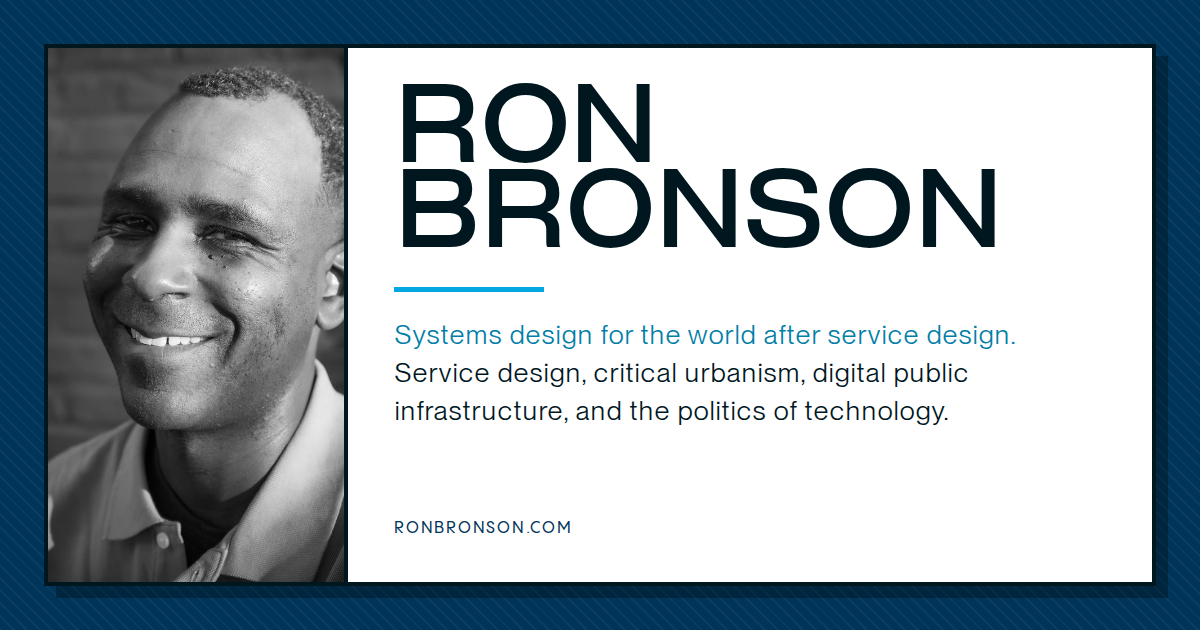
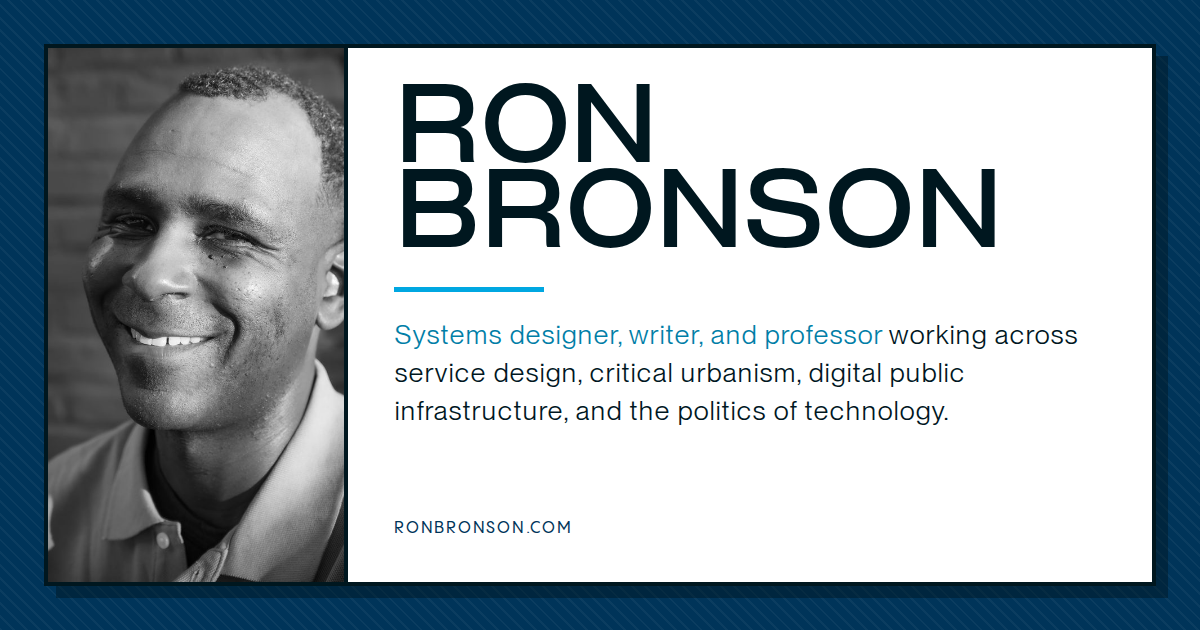
Replace introduction with Ron's two-paragraph copy
Deck line, lines of inquiry and critical-practice modules removed.
Practice, Elsewhere, embeds, rail and Top 8 unchanged. Meta
descriptions, og.html, og.png and README updated.

Claude-Session: https://claude.ai/code/session_015t6jesiUND2iopuK2EreYA

Changed region(s): [[0.3083, 0.573, 0.8017, 0.6333], [0.4933, 0.5127, 0.8942, 0.573]]

diff --git a/index.html b/index.html
@@ -4,7 +4,7 @@
 <meta charset="utf-8" />
 <meta name="viewport" content="width=device-width, initial-scale=1" />
 <title>Ron Bronson</title>
-<meta name="description" content="Systems design for the world after service design. Ron Bronson works across service design, critical urbanism, digital public infrastructure, and the politics of technology." />
+<meta name="description" content="Ron Bronson is a systems designer, writer, and professor working across service design, critical urbanism, digital public infrastructure, and the politics of technology." />
 <link rel="canonical" href="https://ronbronson.com/" />
 
 <!-- Social card. og.png is 1200×630 (1.91:1) and generated from assets/og.html —
@@ -16,7 +16,7 @@
 <meta property="og:url" content="https://ronbronson.com/" />
 <meta property="og:locale" content="en_US" />
 <meta property="og:title" content="Ron Bronson" />
-<meta property="og:description" content="Systems design for the world after service design. Ron Bronson works across service design, critical urbanism, digital public infrastructure, and the politics of technology." />
+<meta property="og:description" content="Ron Bronson is a systems designer, writer, and professor working across service design, critical urbanism, digital public infrastructure, and the politics of technology." />
 <meta property="og:image" content="https://ronbronson.com/assets/og.png" />
 <meta property="og:image:type" content="image/png" />
 <meta property="og:image:width" content="1200" />
@@ -26,7 +26,7 @@
 <meta property="profile:last_name" content="Bronson" />
 <meta name="twitter:card" content="summary_large_image" />
 <meta name="twitter:title" content="Ron Bronson" />
-<meta name="twitter:description" content="Systems design for the world after service design. Ron Bronson works across service design, critical urbanism, digital public infrastructure, and the politics of technology." />
+<meta name="twitter:description" content="Ron Bronson is a systems designer, writer, and professor working across service design, critical urbanism, digital public infrastructure, and the politics of technology." />
 <meta name="twitter:image" content="https://ronbronson.com/assets/og.png" />
 <meta name="twitter:image:alt" content="Ron Bronson and a short introduction." />
 <link rel="preload" as="font" type="font/woff2" href="assets/fonts/MTL/PPNeueMontrealText-Book.woff2" crossorigin />
@@ -117,12 +117,6 @@
     line-height: .96;
     letter-spacing: -.01em;
     text-transform: uppercase;
-  }
-  .deck {
-    margin: 10px 0 0;
-    font-family: var(--std); font-weight: 500;
-    font-size: clamp(16px, 1.7vw, 22px); line-height: 1.25;
-    color: var(--ink-2);
   }
   /* ── columns ── */
   .cols {
@@ -239,22 +233,6 @@
   .blurb p { margin: 0 0 .85em; max-width: 66ch; font-size: clamp(16px, 1.2vw, 18px); line-height: 1.55; }
   .blurb p:last-child { margin-bottom: 0; }
 
-  /* ── lines of inquiry ───────────────────────────────────────────────
-     Five named threads in one module. Each is a title in the display
-     face over a short run of prose, separated by the same dashed rule
-     the rail uses, so the page reads as one system top to bottom.
-     ──────────────────────────────────────────────────────────────── */
-  .inq { margin: 0; padding: 0; list-style: none; }
-  .inq li { padding: clamp(14px, 1.8vw, 20px) 0; border-top: 1px dashed var(--rule); }
-  .inq li:first-child { padding-top: 0; border-top: 0; }
-  .inq li:last-child { padding-bottom: 0; }
-  .inq h3 {
-    margin: 0 0 .35em;
-    font-family: var(--std); font-weight: 500;
-    font-size: clamp(18px, 1.6vw, 23px); line-height: 1.15;
-  }
-  .inq p { margin: 0 0 .7em; max-width: 66ch; font-size: clamp(16px, 1.2vw, 18px); line-height: 1.55; }
-  .inq p:last-child { margin-bottom: 0; }
 
   /* ── favorites, rail-weight ─────────────────────────────────────────
      Deliberately not the 2px-gap grid the main column uses: the rail is
@@ -388,7 +366,6 @@
 
   <header class="banner">
     <h1>Ron Bronson</h1>
-    <p class="deck">Systems design for the world after service design.</p>
   </header>
 
   <div class="cols">
@@ -519,86 +496,13 @@
            bar: it would only label the obvious. -->
       <div class="mod lede">
         <div class="mod__b">
-          <p>I work across service design, critical urbanism, digital public
-            infrastructure, and the politics of technology.</p>
-          <p>I&rsquo;m interested in what happens when designed systems leave the
-            conditions in which they were imagined and become part of everyday life:
-            when an interface becomes a rule, a service becomes infrastructure, an
-            optimization redistributes cost, or a technical system starts making
-            decisions that used to belong to people.</p>
-          <p>Service design has been useful for making systems visible. It is much
-            weaker at accounting for what those systems produce at scale. My work
-            starts there.</p>
-        </div>
-      </div>
-
-      <div class="mod">
-        <h2 class="mod__t">Current lines of inquiry</h2>
-        <div class="mod__b">
-          <ul class="inq">
-            <li>
-              <h3>Consequence Design</h3>
-              <p>Since 2017, I&rsquo;ve used Consequence Design to examine what services
-                and interfaces produce beyond their intended outcomes.</p>
-              <p>The central question is not simply whether a system works. It is what
-                becomes possible because it works, who absorbs the consequences, and
-                what happens when the assumptions embedded in the design meet a world
-                that does not share them.</p>
-            </li>
-            <li>
-              <h3>Design as Repair</h3>
-              <p>Design interventions enter environments that already have histories,
-                constraints, dependencies, and damage.</p>
-              <p>Design as Repair treats maintenance and operational failure as part of
-                the design problem. It argues for designers working closer to where
-                problems actually occur rather than arriving downstream after the
-                important framing decisions have already been made.</p>
-            </li>
-            <li>
-              <h3>Public Mechanics</h3>
-              <p>Services are not only experiences. They are rules, money, people,
-                technical systems, discretion, handoffs, and operations.</p>
-              <p>Public Mechanics studies that layer: how a policy becomes a decision,
-                how a decision becomes an interaction, and whether the person who
-                needed something actually received it.</p>
-            </li>
-            <li>
-              <h3>Digital public infrastructure</h3>
-              <p>Digital public infrastructure is closer to public works and statecraft
-                than to conventional software delivery.</p>
-              <p>Identity systems, payment rails, registries, data exchanges, and
-                increasingly AI-mediated services are becoming part of the operating
-                environment of everyday life. I&rsquo;m interested in who designs these
-                systems, what forms of authority they encode, and whether cities and
-                public bodies have the capacity to govern what they are becoming
-                dependent upon.</p>
-            </li>
-            <li>
-              <h3>Judgment after interfaces</h3>
-              <p>Large language models and autonomous agents move interaction away from
-                fixed interfaces and toward responses assembled through memory,
-                retrieval, tools, instructions, permissions, and models.</p>
-              <p>That changes the design problem. The important questions become who
-                owns the response experience, where judgment resides, what context the
-                system can see, and what happens when machines increasingly mediate the
-                relationship between people and services.</p>
-            </li>
-          </ul>
-        </div>
-      </div>
-
-      <div class="mod">
-        <h2 class="mod__t">A critical practice of service design</h2>
-        <div class="mod__b blurb">
-          <p>I have spent much of my career inside service design while remaining
-            skeptical of what the discipline claims it can accomplish.</p>
-          <p>A clean journey does not make a harmful system benign. Reducing friction
-            can make the wrong thing work better. Improving organizational capacity
-            does not determine what that capacity will be used to do. And increasingly,
-            the service encounter is only the visible edge of much larger technical,
-            economic, and political systems.</p>
-          <p>I&rsquo;m interested in what design becomes when those conditions are
-            treated as part of the material.</p>
+          <p>I&rsquo;m a systems designer, writer, and professor working across service
+            design, critical urbanism, digital public infrastructure, and the politics
+            of technology.</p>
+          <p>My work focuses on how services, interfaces, technical systems, and cities
+            shape public life. I&rsquo;m especially interested in judgment,
+            infrastructure, social trust, technological change, and the consequences
+            that emerge as designed systems operate at scale.</p>
         </div>
       </div>
 

diff --git a/assets/og.html b/assets/og.html
@@ -73,7 +73,7 @@
       <div class="rule"></div>
       <!-- Keep this in step with the bio in index.html and the meta/OG
            descriptions — only this copy is baked into a PNG. -->
-      <p class="lede"><b>Systems design for the world after service design.</b> Service design, critical urbanism, digital public infrastructure, and the politics of technology.</p>
+      <p class="lede"><b>Systems designer, writer, and professor</b> working across service design, critical urbanism, digital public infrastructure, and the politics of technology.</p>
       <p class="foot">ronbronson.com</p>
     </div>
   </div>

diff --git a/README.md b/README.md
@@ -3,10 +3,12 @@
 Source for **ronbronson.com** — the front door for the four sites.
 
 **This page is Ron's statement of what his work is, in his words, plus the personal
-rail.** The main column carries his positioning copy: a deck line under the name, a
-three-paragraph introduction, the five current lines of inquiry, a short critical stance
-on service design, and a Practice paragraph that establishes the bonafides (Michigan,
-18F, where the work has been presented). Then `Elsewhere`, the four onward links.
+rail.** The main column carries his copy: a two-paragraph introduction and a Practice
+paragraph that establishes the bonafides (Michigan, 18F, where the work has been
+presented). Then `Elsewhere`, the four onward links.
+
+Copy rule from Ron: no negation, no contrastive frames, no repetition. Anything in that
+register gets rejected.
 
 This replaced the earlier two-sentence front door, and before that **2026 So Far**. The
 two-sentence version was rejected for being generic; the point of the page now is the
@@ -145,9 +147,8 @@ hover comment describes.
 regeneration command in a comment at the top. **Regenerate it when the framing changes** —
 the card carries its own one-line summary and nothing enforces a match with the page.
 
-The card, `<meta name="description">`, and the OG/Twitter descriptions carry the deck
-line, "Systems design for the world after service design", and the four fields from the
-introduction. That is
+The card, `<meta name="description">`, and the OG/Twitter descriptions carry the first
+sentence of the introduction, third person there and first person on the page. That is
 four copies of one paragraph, and **the card is the copy that goes stale silently**,
 because its text is baked into a PNG: it read "Advisor at State Capacity AI" for as long
 as it took someone to notice. Change one, change all four, and regenerate.
